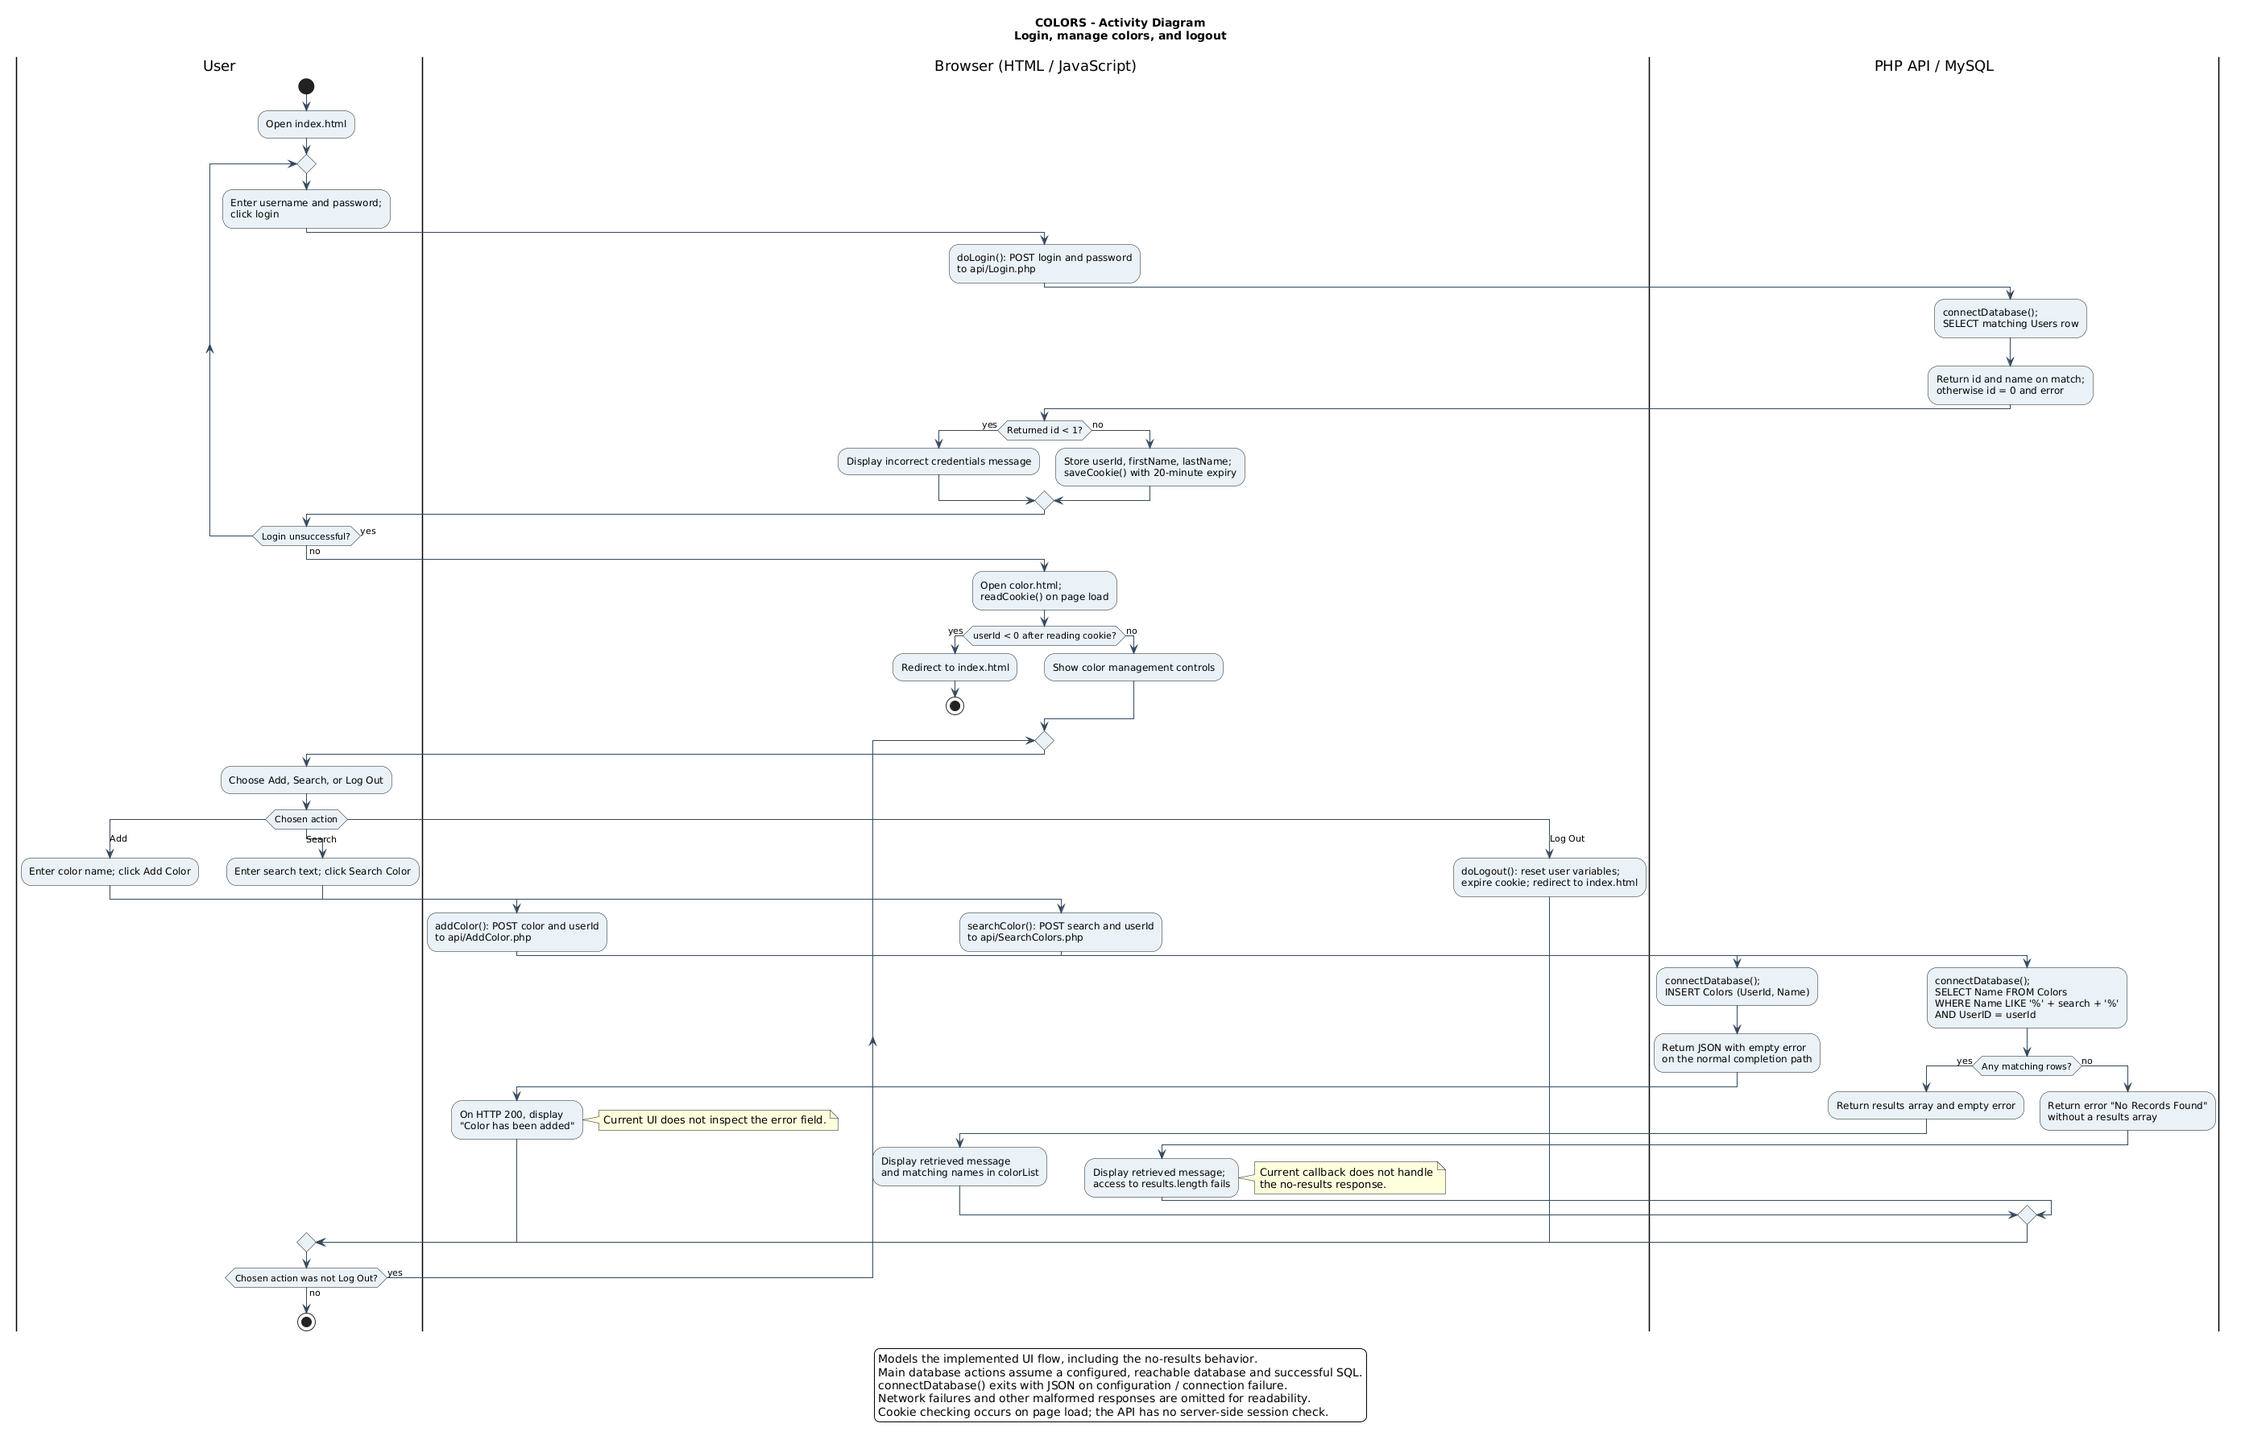
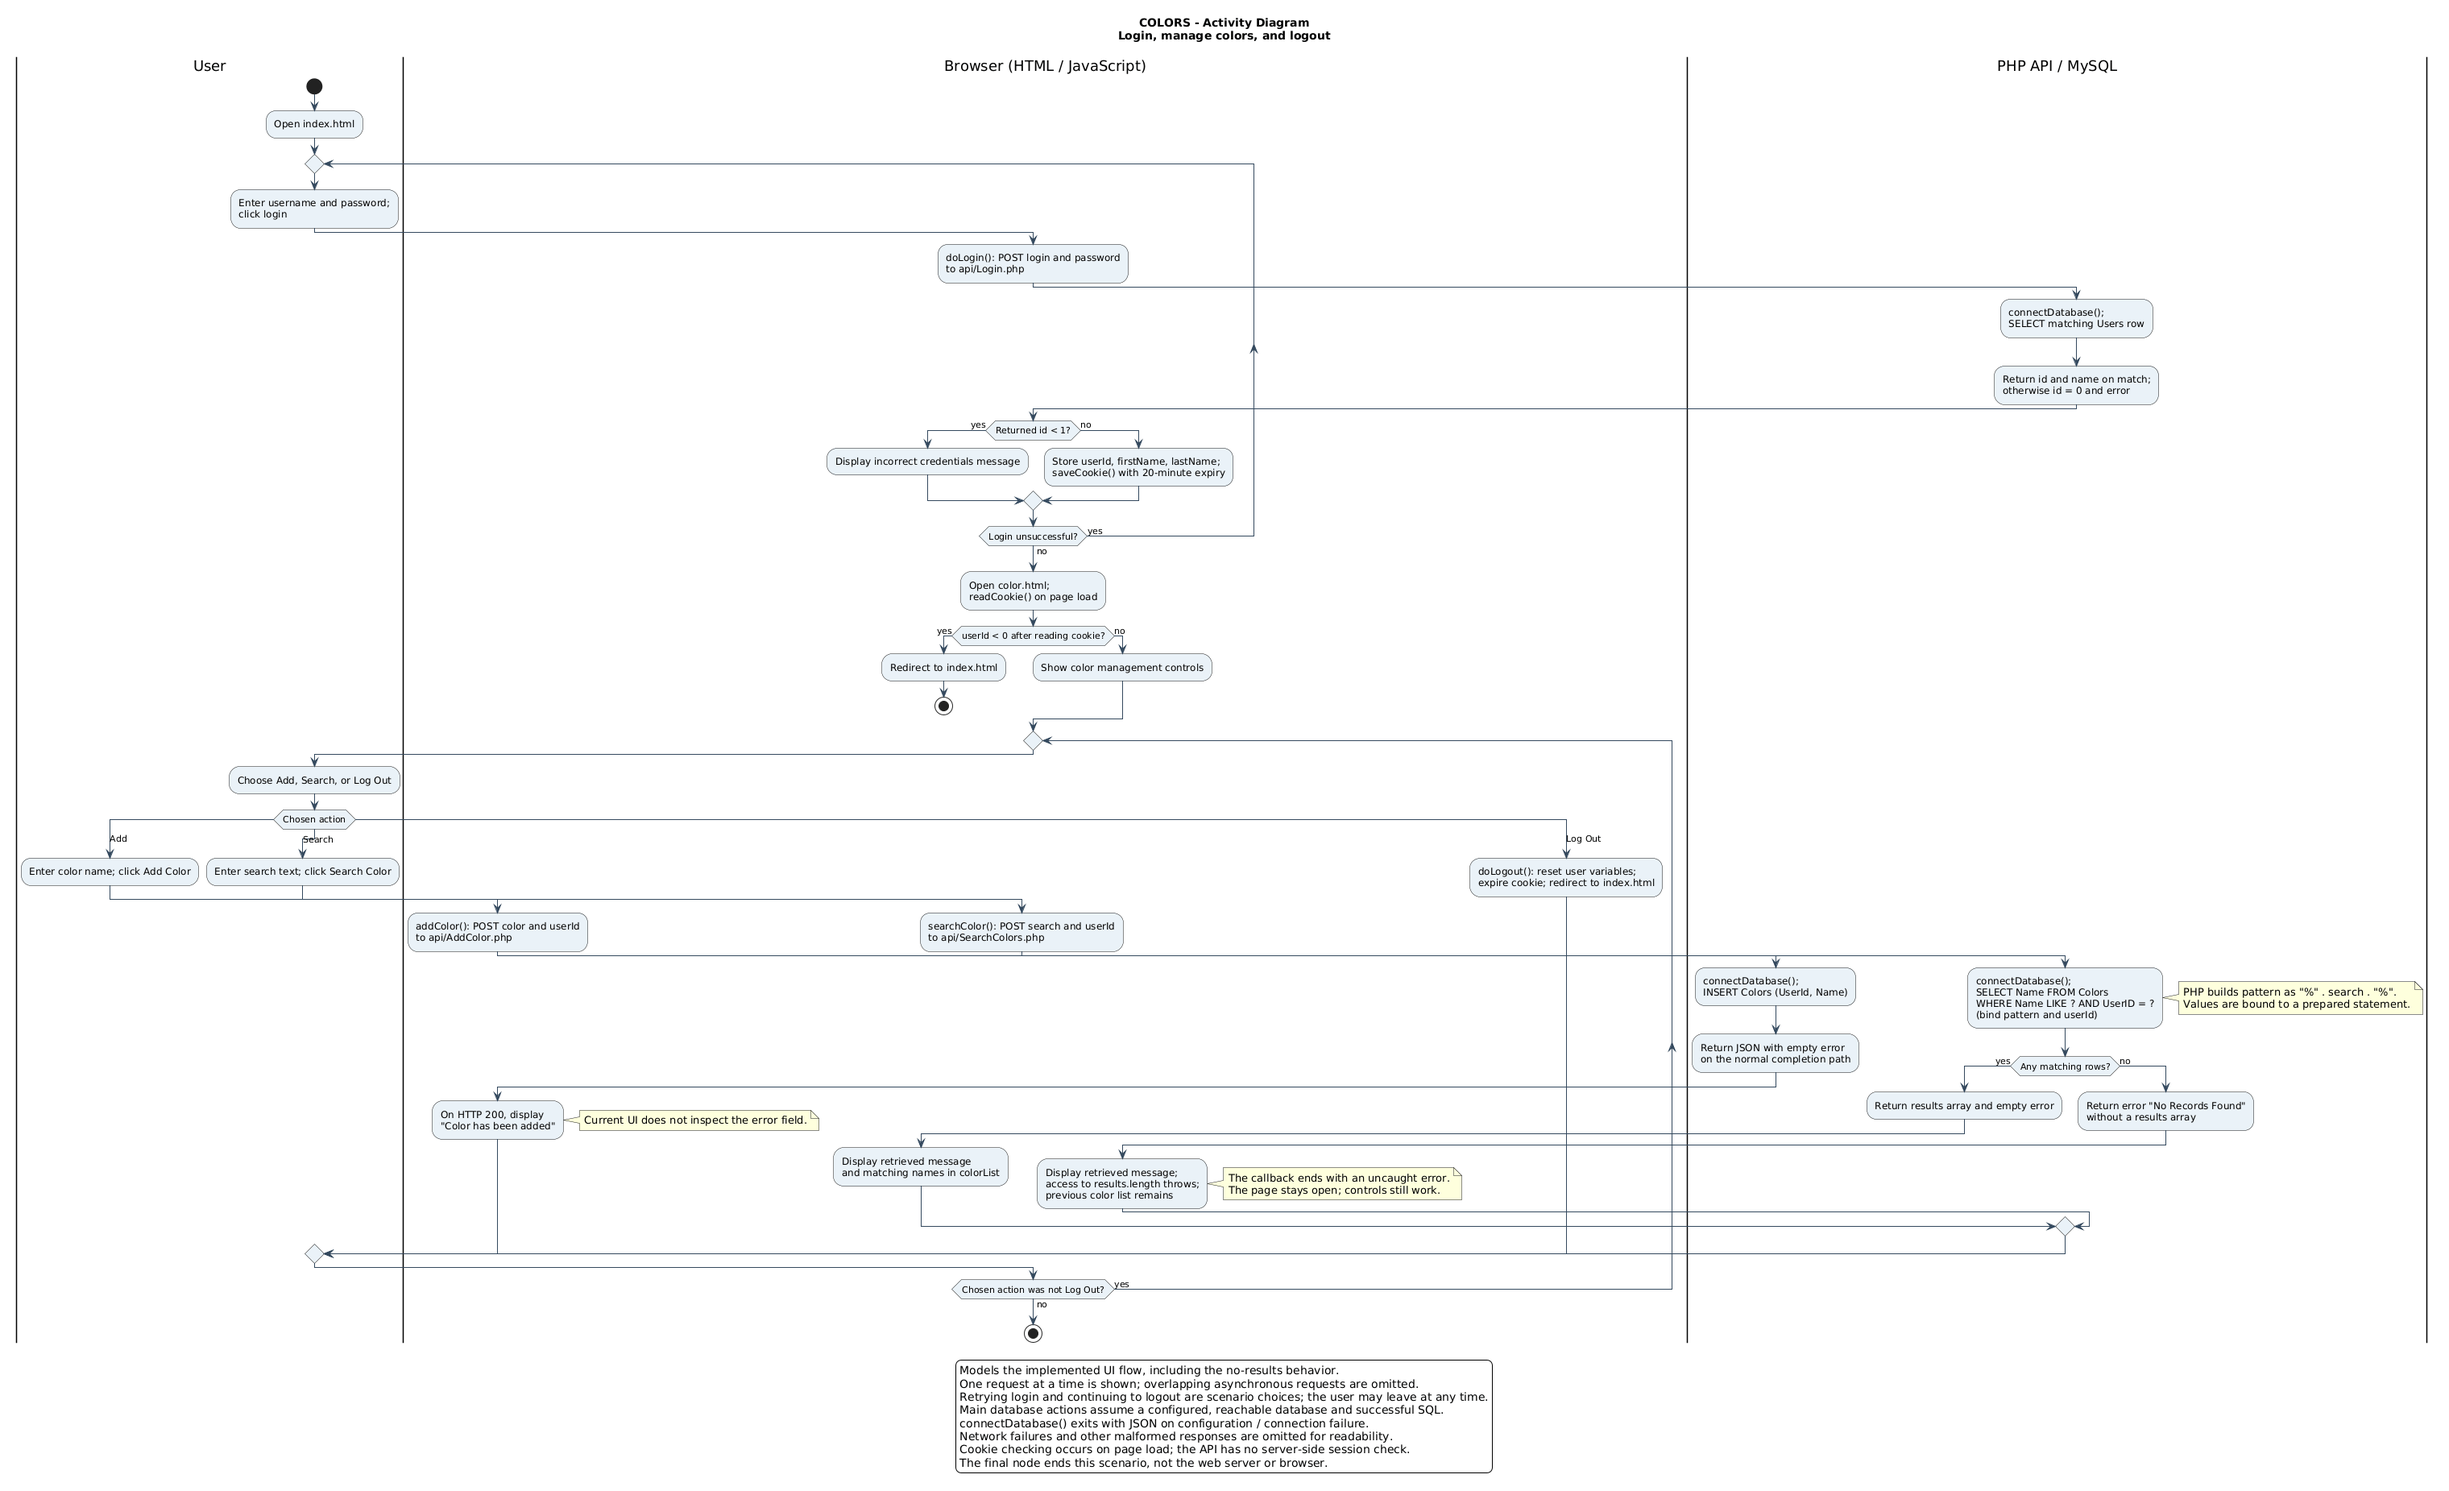
Correct UML details and clarify application behavior and notation

diff --git a/docs/uml/README.md b/docs/uml/README.md
@@ -16,6 +16,10 @@ The existing user can log in, add a color, search saved colors, and log out.
 Login is a precondition for using the color management screen. It is not an
 `include` relationship: the user does not repeat login for every add or search.
 Account creation, editing, and deletion are outside the implemented scope.
+The actor represents a person with an existing account, both before and after
+login. The system boundary includes the browser code, PHP API, and database;
+the database is therefore internal, rather than an external actor. The lines
+connect users to their goals and do not specify execution order.
 
 ![COLORS use case diagram](usecase.png)
 
@@ -28,6 +32,16 @@ shows the current callback failure because the API does not return `results`.
 The add branch records that the UI displays success on HTTP 200 without checking
 the JSON error. Database operations otherwise show the normal completion path;
 configuration, connection, and network failures are summarized in the legend.
+The login decisions belong to the browser lane because JavaScript evaluates
+the returned ID. Login retries are a chosen scenario, not automatic form
+resubmission. The diagram shows one request at a time; actual XMLHttpRequests
+are asynchronous, and the UI does not prevent overlapping requests.
+
+On a no-match search, the callback throws before replacing the displayed list;
+any previous results remain visible. That error ends the callback, not the
+page, so a user can search again, add a color, or log out. The surrounding
+`try/catch` does not catch an exception raised later in an asynchronous
+callback. The activity's final node ends the depicted interaction only.
 
 ![COLORS activity diagram](activity.png)
 
@@ -45,8 +59,38 @@ to one user. This describes the application domain: the supplied schema has no
 foreign key, and the PHP endpoints trust the request's `userId`. The model does
 not imply database-enforced ownership or a server-side authentication session.
 Entity attribute lengths come from `database/schema.sql`.
+For example, a database row with `UserID = 0` can exist despite the logical
+`1` multiplicity at the User end. All columns are `NOT NULL`; string columns
+default to the empty string, and `Colors.UserID` defaults to `0`. `PK` means
+primary key, and `0..*` means zero or more. The association is not composition:
+the implementation defines no cascading deletion or shared object lifetime.
+
+`AssociativeArray` describes the PHP array produced by
+`json_decode(..., true)` for a valid JSON object request. Invalid JSON handling
+is outside the modeled normal path. `sendResultInfoAsJson()` receives an
+already serialized JSON string and writes it to the response; it does not
+return that string. PHP helper functions are global within each request, not
+class methods or file-private functions. Each endpoint runs in a separate
+request, so its same-named helpers do not indicate inheritance or shared methods.
 
 ![COLORS class diagram](class.png)
+
+## Implementation details that affect interpretation
+
+- A successful login compares the supplied password directly with `Users.Password`.
+  The included MD5 helper is unused; no hashing or server session is implied.
+- `saveCookie()` writes one cookie named `firstName` whose comma-separated value
+  also contains `lastName` and `userId`, with a 20-minute expiry. `readCookie()`
+  runs when `color.html` loads. It only redirects when the parsed ID is negative;
+  it does not validate the account, and values such as `0` or `NaN` can pass.
+  Expiry does not automatically log out an already open page.
+- Search binds `"%" . search . "%"` and the supplied user ID to a prepared
+  statement. An empty search matches all of that user's colors; `%` and `_`
+  in input retain SQL `LIKE` wildcard meanings. Case matching depends on the
+  database collation, which the supplied schema does not specify.
+- An HTTP 200 response is not proof that a color was saved. The UI ignores the
+  error field, and the add endpoint does not check `execute()`'s return value.
+  Database error paths and malformed input are not fully modeled.
 
 ## Traceability to the application
 
@@ -73,6 +117,17 @@ Alternatively, render each source through the
 [PlantUML server](https://plantuml.com/server). The checked-in images were
 generated through that service and visually reviewed against the sources.
 PlantUML documentation describes the [command-line rendering options](https://plantuml.com/command-line).
+
+## Review and validation
+
+The UML sources were reviewed against the HTML, JavaScript, PHP, and SQL files.
+All images were regenerated after corrections, checked for valid PNG/SVG
+structure, and visually reviewed. Documentation links and Git whitespace checks
+were also checked. A Node.js harness with a mocked DOM and asynchronous HTTP
+responses verified login success/failure, add responses containing errors,
+search matches/no matches, cookie checks, and logout. This is not a live
+PHP/MySQL integration test. Application source files were unchanged by this
+UML review.
 
 ## Assignment reference materials
 
